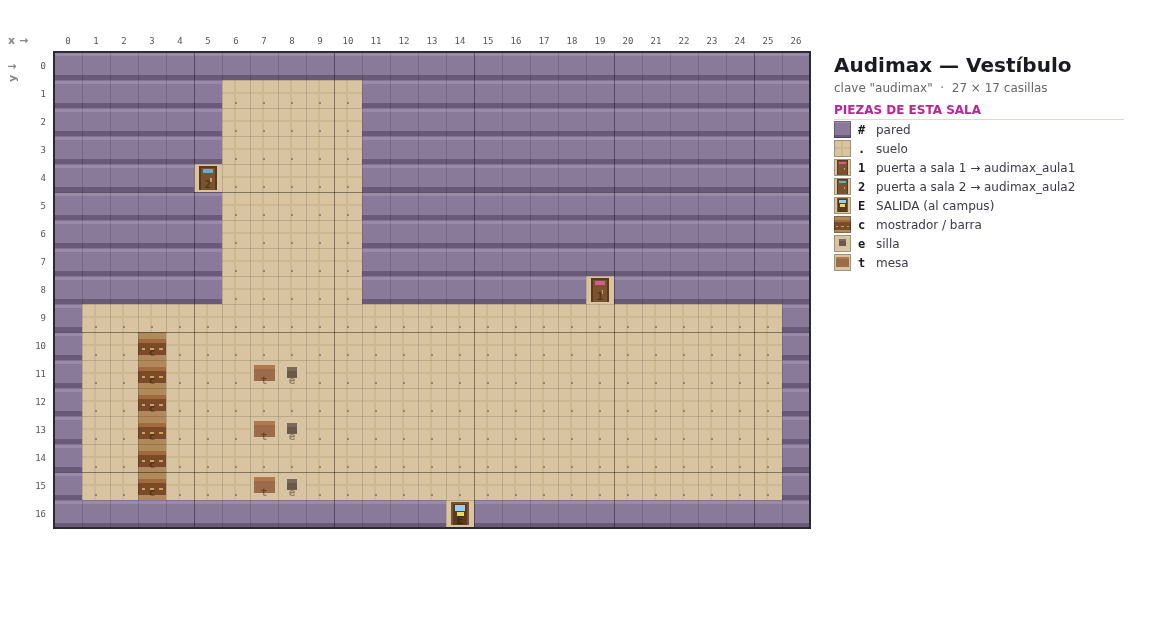
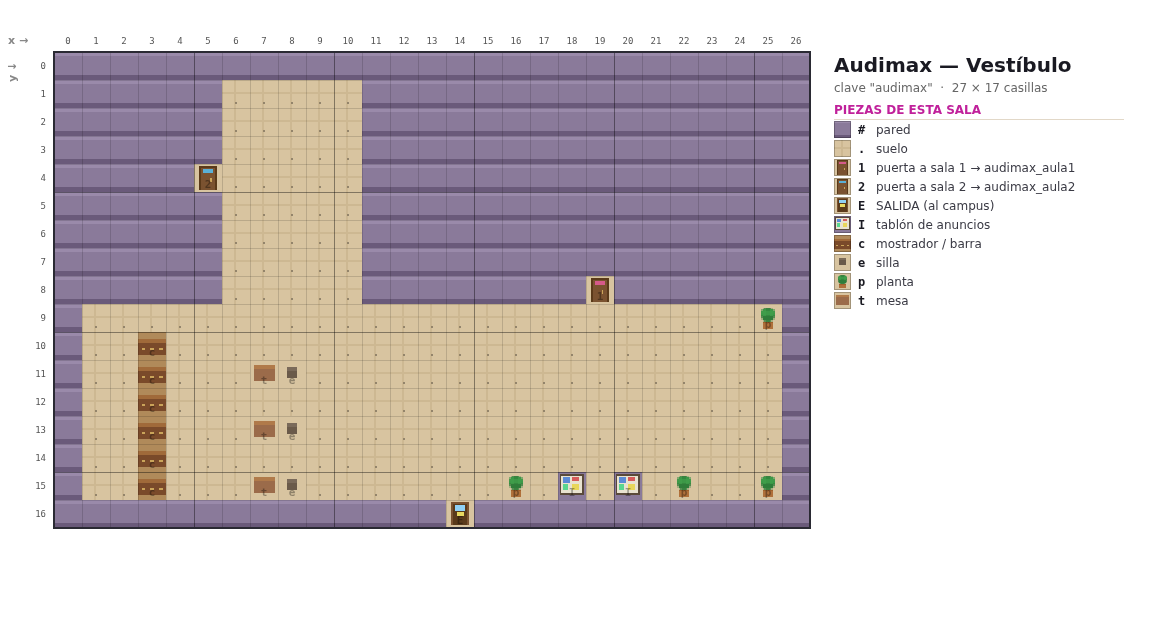
Decorar el vestíbulo del Audimax y girar el aula secundaria
Vestíbulo: a la derecha de la entrada se añaden dos tablones de anuncios en
(18,15) y (20,15) —uno con el directorio de las dos aulas y otro con el
programa del día— y cuatro plantas en (16,15), (22,15), (25,15) y (25,9).

Aula secundaria: la sala se gira 90 grados en sentido antihorario, de modo
que la puerta pasa de la pared inferior a la derecha de la pantalla, en
(10,7), y la pizarra queda en la pared izquierda. La rejilla pasa de 15x11
a 11x15, los pupitres quedan en columnas y los alumnos miran hacia la
pizarra. El NPC se gira con la sala: de (7,8) mirando arriba a (8,7)
mirando a la izquierda.

Probado: se entra a las dos aulas desde el vestíbulo y se vuelve. Al entrar
en la secundaria el jugador aparece en (9,7), junto a la puerta.
validateMaps() da 0 errores y 0 avisos.

Claude-Session: https://claude.ai/code/session_01MUkCxWMxEAWrFgXYAJ3j4N

diff --git a/index.html b/index.html
@@ -762,18 +762,22 @@ const INTERIORS = {
       "######.....################",
       "######.....################",
       "######.....########1#######",
-      "#.........................#",
+      "#........................p#",
       "#..c......................#",
       "#..c...te.................#",
       "#..c......................#",
       "#..c...te.................#",
       "#..c......................#",
-      "#..c...te.................#",
+      "#..c...te.......p.I.I.p..p#",
       "##############E############",
     ],
     doors:[
       {x:19,y:8, to:'audimax_aula1'},
       {x:5, y:4, to:'audimax_aula2'},
+    ],
+    info:[
+      {x:18,y:15,name:"Directorio del Audimax",lines:["📋 AUDIMAX","Arriba a la derecha: Aula Magna.","Arriba a la izquierda: Aula Secundaria.","La cafetería, a la izquierda del vestíbulo."]},
+      {x:20,y:15,name:"Cartel · Programa de hoy",lines:["📣 HOY EN EL AUDIMAX","10:00 — Clase magistral de Derecho Europeo.","18:00 — Conferencia abierta: «Passau y el Danubio»."]},
     ],
     npcs:[
       {x:14,y:12,name:"Ujier Anton",color:"#8a5ad6",dir:'down',
@@ -817,21 +821,26 @@ const INTERIORS = {
   // Aula secundaria: pupitres y sillas en filas, pizarra al frente.
   audimax_aula2: {
     name:"Audimax — Aula Secundaria",
+    // Girada 90 grados: la puerta queda a la derecha y la pizarra a la izquierda.
     grid:[
-      "###############",
-      "#PPPPPPPPPPPPP#",
-      "#aaaaaaaaaaaaa#",
-      "#ammammammamma#",
-      "#aeeaeeaeeaeea#",
-      "#aaaaaaaaaaaaa#",
-      "#ammammammamma#",
-      "#aeeaeeaeeaeea#",
-      "#aaaaaaaaaaaaa#",
-      "#aaaaaaaaaaaaa#",
-      "#######X#######",
+      "###########",
+      "#Paaaaaaaa#",
+      "#Pameameaa#",
+      "#Pameameaa#",
+      "#Paaaaaaaa#",
+      "#Pameameaa#",
+      "#Pameameaa#",
+      "#PaaaaaaaaX",
+      "#Pameameaa#",
+      "#Pameameaa#",
+      "#Paaaaaaaa#",
+      "#Pameameaa#",
+      "#Pameameaa#",
+      "#Paaaaaaaa#",
+      "###########",
     ],
     npcs:[
-      {x:7,y:8,name:"Estudiante Jonas",color:"#5a8ad6",dir:'up',
+      {x:8,y:7,name:"Estudiante Jonas",color:"#5a8ad6",dir:'left',
        lines:["Aquí damos los seminarios pequeños, nada de conferencias.","Se agradece un aula normal después del aula magna."]},
     ]
   },
